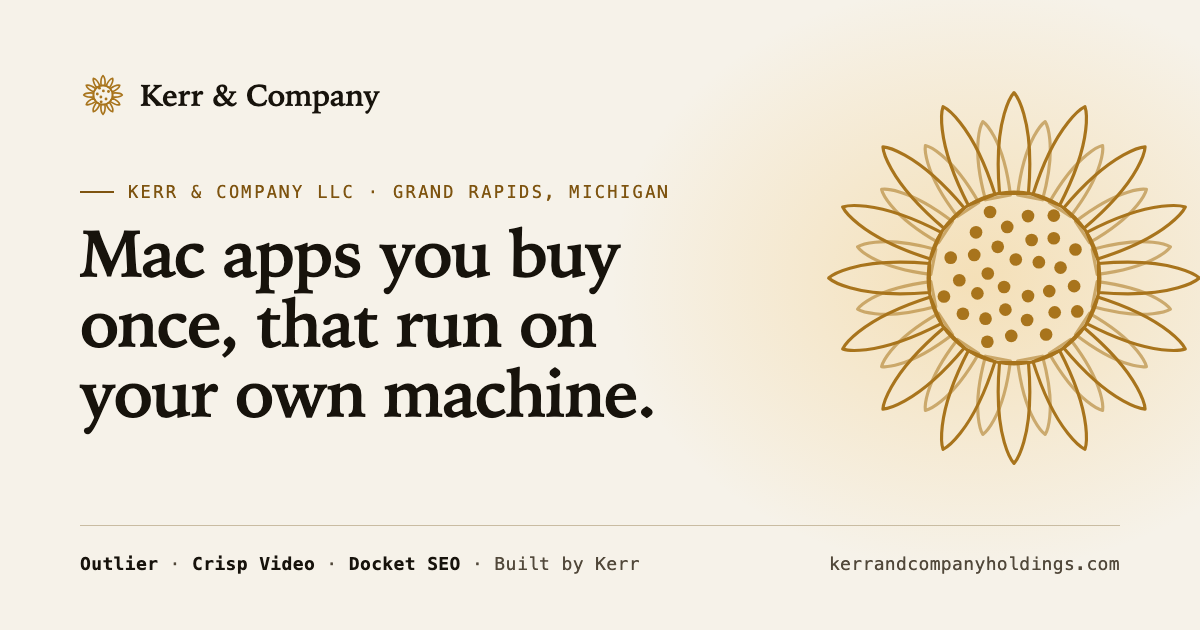
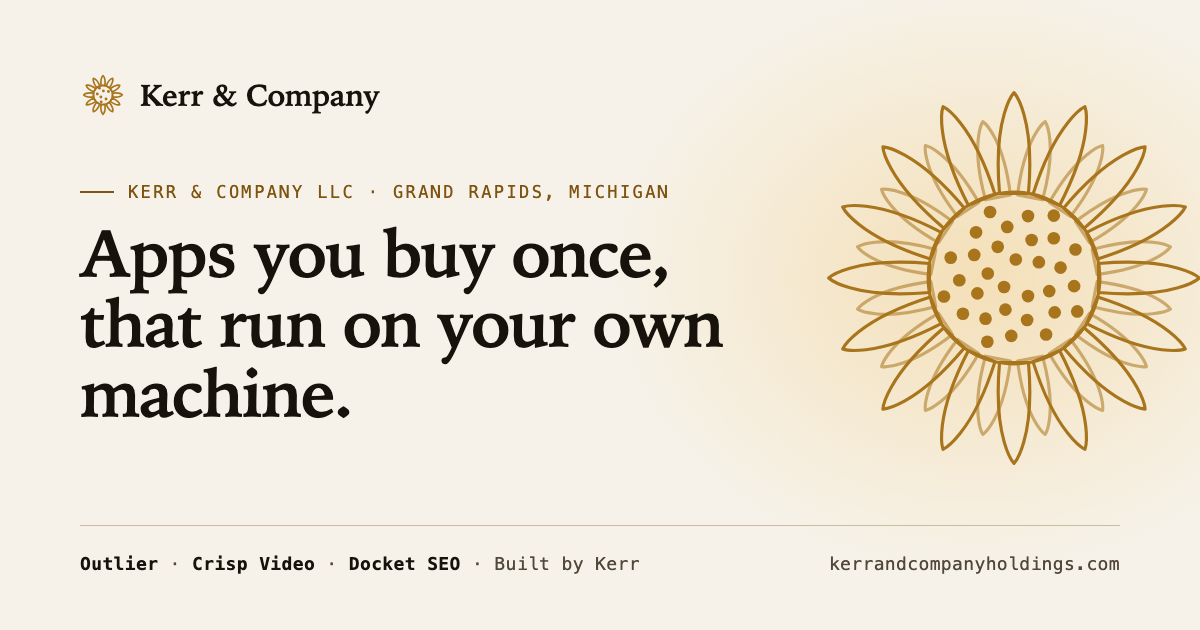
Headline: apps you buy once, for Mac and Windows
Crisp and Docket now ship for Windows too, so the company headline, its share card and the page
descriptions stop saying Mac only. Matthew chose this on 2026-11-04.

Changed region(s): [[0.0617, 0.3619, 0.6167, 0.6937]]

diff --git a/index.html b/index.html
@@ -11,25 +11,25 @@
 <meta charset="utf-8">
 <meta name="viewport" content="width=device-width, initial-scale=1">
 <meta name="msvalidate.01" content="34D102FD9C044A2BDA597B176842725B" />
-<title>Kerr &amp; Company LLC: Mac apps you buy once, from Grand Rapids</title>
-<meta name="description" content="An independent software company in Grand Rapids, Michigan. It makes Outlier, Crisp and Docket SEO, Mac apps you buy once, and runs Built by Kerr.">
+<title>Kerr &amp; Company LLC: Apps you buy once, from Grand Rapids</title>
+<meta name="description" content="An independent software company in Grand Rapids, Michigan. It makes Outlier, Crisp and Docket SEO, apps you buy once for Mac and Windows, and runs Built by Kerr.">
 <link rel="canonical" href="https://kerrandcompanyholdings.com/">
 <meta name="robots" content="index,follow">
 <meta property="og:type" content="website">
 <meta property="og:site_name" content="Kerr &amp; Company LLC">
-<meta property="og:title" content="Kerr &amp; Company LLC: Mac apps you buy once">
-<meta property="og:description" content="Mac apps you buy once, that run on your own machine: Outlier, Crisp Video and Docket SEO. And Built by Kerr, the web studio. Grand Rapids, Michigan.">
+<meta property="og:title" content="Kerr &amp; Company LLC: Apps you buy once">
+<meta property="og:description" content="Apps you buy once for Mac and Windows, that run on your own machine: Outlier, Crisp Video and Docket SEO. And Built by Kerr, the web studio. Grand Rapids, Michigan.">
 <meta property="og:url" content="https://kerrandcompanyholdings.com/">
 <meta property="og:image" content="https://kerrandcompanyholdings.com/og.png">
 <meta property="og:image:width" content="1200">
 <meta property="og:image:height" content="630">
-<meta property="og:image:alt" content="Kerr &amp; Company LLC, Grand Rapids, Michigan. Mac apps you buy once, that run on your own machine: Outlier, Crisp Video, Docket SEO, and the Built by Kerr web studio.">
+<meta property="og:image:alt" content="Kerr &amp; Company LLC, Grand Rapids, Michigan. Apps you buy once for Mac and Windows, that run on your own machine: Outlier, Crisp Video, Docket SEO, and the Built by Kerr web studio.">
 <meta name="twitter:card" content="summary_large_image">
-<meta name="twitter:title" content="Kerr &amp; Company LLC: Mac apps you buy once">
-<meta name="twitter:description" content="Mac apps you buy once, that run on your own machine: Outlier, Crisp Video and Docket SEO. And Built by Kerr, the web studio. Grand Rapids, Michigan.">
+<meta name="twitter:title" content="Kerr &amp; Company LLC: Apps you buy once">
+<meta name="twitter:description" content="Apps you buy once for Mac and Windows, that run on your own machine: Outlier, Crisp Video and Docket SEO. And Built by Kerr, the web studio. Grand Rapids, Michigan.">
 <meta name="twitter:image" content="https://kerrandcompanyholdings.com/og.png">
-<meta name="twitter:image:alt" content="Kerr &amp; Company LLC, Grand Rapids, Michigan. Mac apps you buy once, that run on your own machine: Outlier, Crisp Video, Docket SEO, and the Built by Kerr web studio.">
-<script type="application/ld+json">{"@context":"https://schema.org","@graph":[{"@type":"Organization","@id":"https://kerrandcompanyholdings.com/#organization","name":"Kerr & Company","legalName":"Kerr & Company LLC","url":"https://kerrandcompanyholdings.com/","logo":{"@type":"ImageObject","url":"https://kerrandcompanyholdings.com/assets/icon-512.png","width":512,"height":512},"image":"https://kerrandcompanyholdings.com/og.png","description":"An independent software company in Grand Rapids, Michigan. It makes Mac apps you buy once that run on your own machine, and runs the Built by Kerr web studio.","email":"matthew@kerrandcompanyholdings.com","address":{"@type":"PostalAddress","addressLocality":"Grand Rapids","addressRegion":"MI","addressCountry":"US"},"founder":{"@type":"Person","name":"Matthew Kerr","url":"https://matthewkerr.dev/","sameAs":["https://matthewkerr.dev/","https://github.com/mattkerr09","https://www.linkedin.com/in/matthew-kerr9"]},"brand":[{"@type":"Brand","name":"Outlier","url":"https://outlier.host/"},{"@type":"Brand","name":"Crisp Video","url":"https://crispvideo.app/"},{"@type":"Brand","name":"Docket SEO","url":"https://docketseo.app/"}],"subOrganization":{"@type":"ProfessionalService","name":"Built by Kerr","url":"https://builtbykerr.com/"},"sameAs":["https://outlier.host/","https://crispvideo.app/","https://docketseo.app/","https://builtbykerr.com/"]},{"@type":"WebSite","@id":"https://kerrandcompanyholdings.com/#website","url":"https://kerrandcompanyholdings.com/","name":"Kerr & Company","inLanguage":"en-US","publisher":{"@id":"https://kerrandcompanyholdings.com/#organization"}}]}</script>
+<meta name="twitter:image:alt" content="Kerr &amp; Company LLC, Grand Rapids, Michigan. Apps you buy once for Mac and Windows, that run on your own machine: Outlier, Crisp Video, Docket SEO, and the Built by Kerr web studio.">
+<script type="application/ld+json">{"@context":"https://schema.org","@graph":[{"@type":"Organization","@id":"https://kerrandcompanyholdings.com/#organization","name":"Kerr & Company","legalName":"Kerr & Company LLC","url":"https://kerrandcompanyholdings.com/","logo":{"@type":"ImageObject","url":"https://kerrandcompanyholdings.com/assets/icon-512.png","width":512,"height":512},"image":"https://kerrandcompanyholdings.com/og.png","description":"An independent software company in Grand Rapids, Michigan. It makes apps you buy once for Mac and Windows that run on your own machine, and runs the Built by Kerr web studio.","email":"matthew@kerrandcompanyholdings.com","address":{"@type":"PostalAddress","addressLocality":"Grand Rapids","addressRegion":"MI","addressCountry":"US"},"founder":{"@type":"Person","name":"Matthew Kerr","url":"https://matthewkerr.dev/","sameAs":["https://matthewkerr.dev/","https://github.com/mattkerr09","https://www.linkedin.com/in/matthew-kerr9"]},"brand":[{"@type":"Brand","name":"Outlier","url":"https://outlier.host/"},{"@type":"Brand","name":"Crisp Video","url":"https://crispvideo.app/"},{"@type":"Brand","name":"Docket SEO","url":"https://docketseo.app/"}],"subOrganization":{"@type":"ProfessionalService","name":"Built by Kerr","url":"https://builtbykerr.com/"},"sameAs":["https://outlier.host/","https://crispvideo.app/","https://docketseo.app/","https://builtbykerr.com/"]},{"@type":"WebSite","@id":"https://kerrandcompanyholdings.com/#website","url":"https://kerrandcompanyholdings.com/","name":"Kerr & Company","inLanguage":"en-US","publisher":{"@id":"https://kerrandcompanyholdings.com/#organization"}}]}</script>
 <meta name="theme-color" content="#F6F2E9" media="(prefers-color-scheme: light)">
 <meta name="theme-color" content="#0F0D09" media="(prefers-color-scheme: dark)">
 <meta name="color-scheme" content="light dark">
@@ -65,7 +65,8 @@
   <div class="wrap hero-grid">
     <div class="hero-copy">
       <p class="eyebrow">Kerr &amp; Company LLC &middot; Grand Rapids, Michigan</p>
-      <h1 id="hero-title">Mac apps you buy once, that run on your own machine.</h1>
+      <h1 id="hero-title">Apps you buy once, that run on your own machine.</h1>
+      <p class="lead"><strong>For Mac and Windows.</strong></p>
       <p class="lead">Kerr &amp; Company is an independent software company in Grand Rapids,
       Michigan. It makes Outlier, Crisp Video and Docket SEO, and runs Built by Kerr, a web
       studio for Grand Rapids businesses.</p>

diff --git a/about/index.html b/about/index.html
@@ -12,21 +12,21 @@
 <meta name="viewport" content="width=device-width, initial-scale=1">
 <meta name="msvalidate.01" content="34D102FD9C044A2BDA597B176842725B" />
 <title>About Kerr &amp; Company LLC, a Michigan software company</title>
-<meta name="description" content="Who Kerr &amp; Company LLC is: a Michigan software company in Grand Rapids, owned and run by Matthew Kerr, that makes Mac apps you buy once.">
+<meta name="description" content="Who Kerr &amp; Company LLC is: a Michigan software company in Grand Rapids, owned and run by Matthew Kerr, that makes apps you buy once for Mac and Windows.">
 <link rel="canonical" href="https://kerrandcompanyholdings.com/about/">
 <meta name="robots" content="index,follow">
 <meta property="og:type" content="website">
 <meta property="og:title" content="About Kerr &amp; Company LLC">
-<meta property="og:description" content="Who Kerr &amp; Company LLC is: a Michigan software company in Grand Rapids, owned and run by Matthew Kerr, that makes Mac apps you buy once.">
+<meta property="og:description" content="Who Kerr &amp; Company LLC is: a Michigan software company in Grand Rapids, owned and run by Matthew Kerr, that makes apps you buy once for Mac and Windows.">
 <meta property="og:url" content="https://kerrandcompanyholdings.com/about/">
 <meta property="og:site_name" content="Kerr &amp; Company LLC">
 <meta property="og:image" content="https://kerrandcompanyholdings.com/og.png">
 <meta property="og:image:width" content="1200">
 <meta property="og:image:height" content="630">
-<meta property="og:image:alt" content="Kerr &amp; Company LLC, Grand Rapids, Michigan. Mac apps you buy once, that run on your own machine: Outlier, Crisp Video, Docket SEO, and the Built by Kerr web studio.">
+<meta property="og:image:alt" content="Kerr &amp; Company LLC, Grand Rapids, Michigan. Apps you buy once for Mac and Windows, that run on your own machine: Outlier, Crisp Video, Docket SEO, and the Built by Kerr web studio.">
 <meta name="twitter:card" content="summary_large_image">
 <meta name="twitter:title" content="About Kerr &amp; Company LLC">
-<meta name="twitter:description" content="Who Kerr &amp; Company LLC is: a Michigan software company in Grand Rapids, owned and run by Matthew Kerr, that makes Mac apps you buy once.">
+<meta name="twitter:description" content="Who Kerr &amp; Company LLC is: a Michigan software company in Grand Rapids, owned and run by Matthew Kerr, that makes apps you buy once for Mac and Windows.">
 <meta name="twitter:image" content="https://kerrandcompanyholdings.com/og.png">
 <script type="application/ld+json">{"@context":"https://schema.org","@type":"AboutPage","name":"About Kerr & Company LLC","url":"https://kerrandcompanyholdings.com/about/","mainEntity":{"@type":"Organization","name":"Kerr & Company LLC","legalName":"Kerr & Company LLC","url":"https://kerrandcompanyholdings.com/","email":"matthew@kerrandcompanyholdings.com","founder":{"@type":"Person","name":"Matthew Kerr","url":"https://matthewkerr.dev/"},"address":{"@type":"PostalAddress","addressLocality":"Grand Rapids","addressRegion":"MI","addressCountry":"US"}}}</script>
 <meta name="theme-color" content="#F6F2E9" media="(prefers-color-scheme: light)">

diff --git a/affiliates/index.html b/affiliates/index.html
@@ -23,7 +23,7 @@
 <meta property="og:image" content="https://kerrandcompanyholdings.com/og.png">
 <meta property="og:image:width" content="1200">
 <meta property="og:image:height" content="630">
-<meta property="og:image:alt" content="Kerr &amp; Company LLC, Grand Rapids, Michigan. Mac apps you buy once, that run on your own machine: Outlier, Crisp Video, Docket SEO, and the Built by Kerr web studio.">
+<meta property="og:image:alt" content="Kerr &amp; Company LLC, Grand Rapids, Michigan. Apps you buy once for Mac and Windows, that run on your own machine: Outlier, Crisp Video, Docket SEO, and the Built by Kerr web studio.">
 <meta name="twitter:card" content="summary_large_image">
 <meta name="twitter:title" content="Affiliate programme | Kerr &amp; Company LLC">
 <meta name="twitter:description" content="Recommend Crisp, Docket SEO, AdPlaybook or Outlier with a personal code: 50% of each sale, 60% after ten, paid 30 days after the sale by bank transfer.">

diff --git a/privacy/index.html b/privacy/index.html
@@ -23,7 +23,7 @@
 <meta property="og:image" content="https://kerrandcompanyholdings.com/og.png">
 <meta property="og:image:width" content="1200">
 <meta property="og:image:height" content="630">
-<meta property="og:image:alt" content="Kerr &amp; Company LLC, Grand Rapids, Michigan. Mac apps you buy once, that run on your own machine: Outlier, Crisp Video, Docket SEO, and the Built by Kerr web studio.">
+<meta property="og:image:alt" content="Kerr &amp; Company LLC, Grand Rapids, Michigan. Apps you buy once for Mac and Windows, that run on your own machine: Outlier, Crisp Video, Docket SEO, and the Built by Kerr web studio.">
 <meta name="twitter:card" content="summary_large_image">
 <meta name="twitter:title" content="Privacy | Kerr &amp; Company LLC">
 <meta name="twitter:description" content="What kerrandcompanyholdings.com collects and who sees it: one analytics tool that sets no cookies and stores no personal data, and no forms.">

diff --git a/scripts/og-card.html b/scripts/og-card.html
@@ -38,7 +38,7 @@
 <div class="copy">
   <div class="brand"><svg viewBox="0 0 100 100" aria-hidden="true"><use href="#kc-mark-sm"/></svg>Kerr &amp; Company</div>
   <p class="eyebrow">Kerr &amp; Company LLC &middot; Grand Rapids, Michigan</p>
-  <h1>Mac apps you buy once, that run on your own machine.</h1>
+  <h1>Apps you buy once, that run on your own machine.</h1>
 </div>
 <div class="rule"></div>
 <div class="foot"><span><b>Outlier</b> &middot; <b>Crisp Video</b> &middot; <b>Docket SEO</b> &middot; Built by Kerr</span><span>kerrandcompanyholdings.com</span></div>
